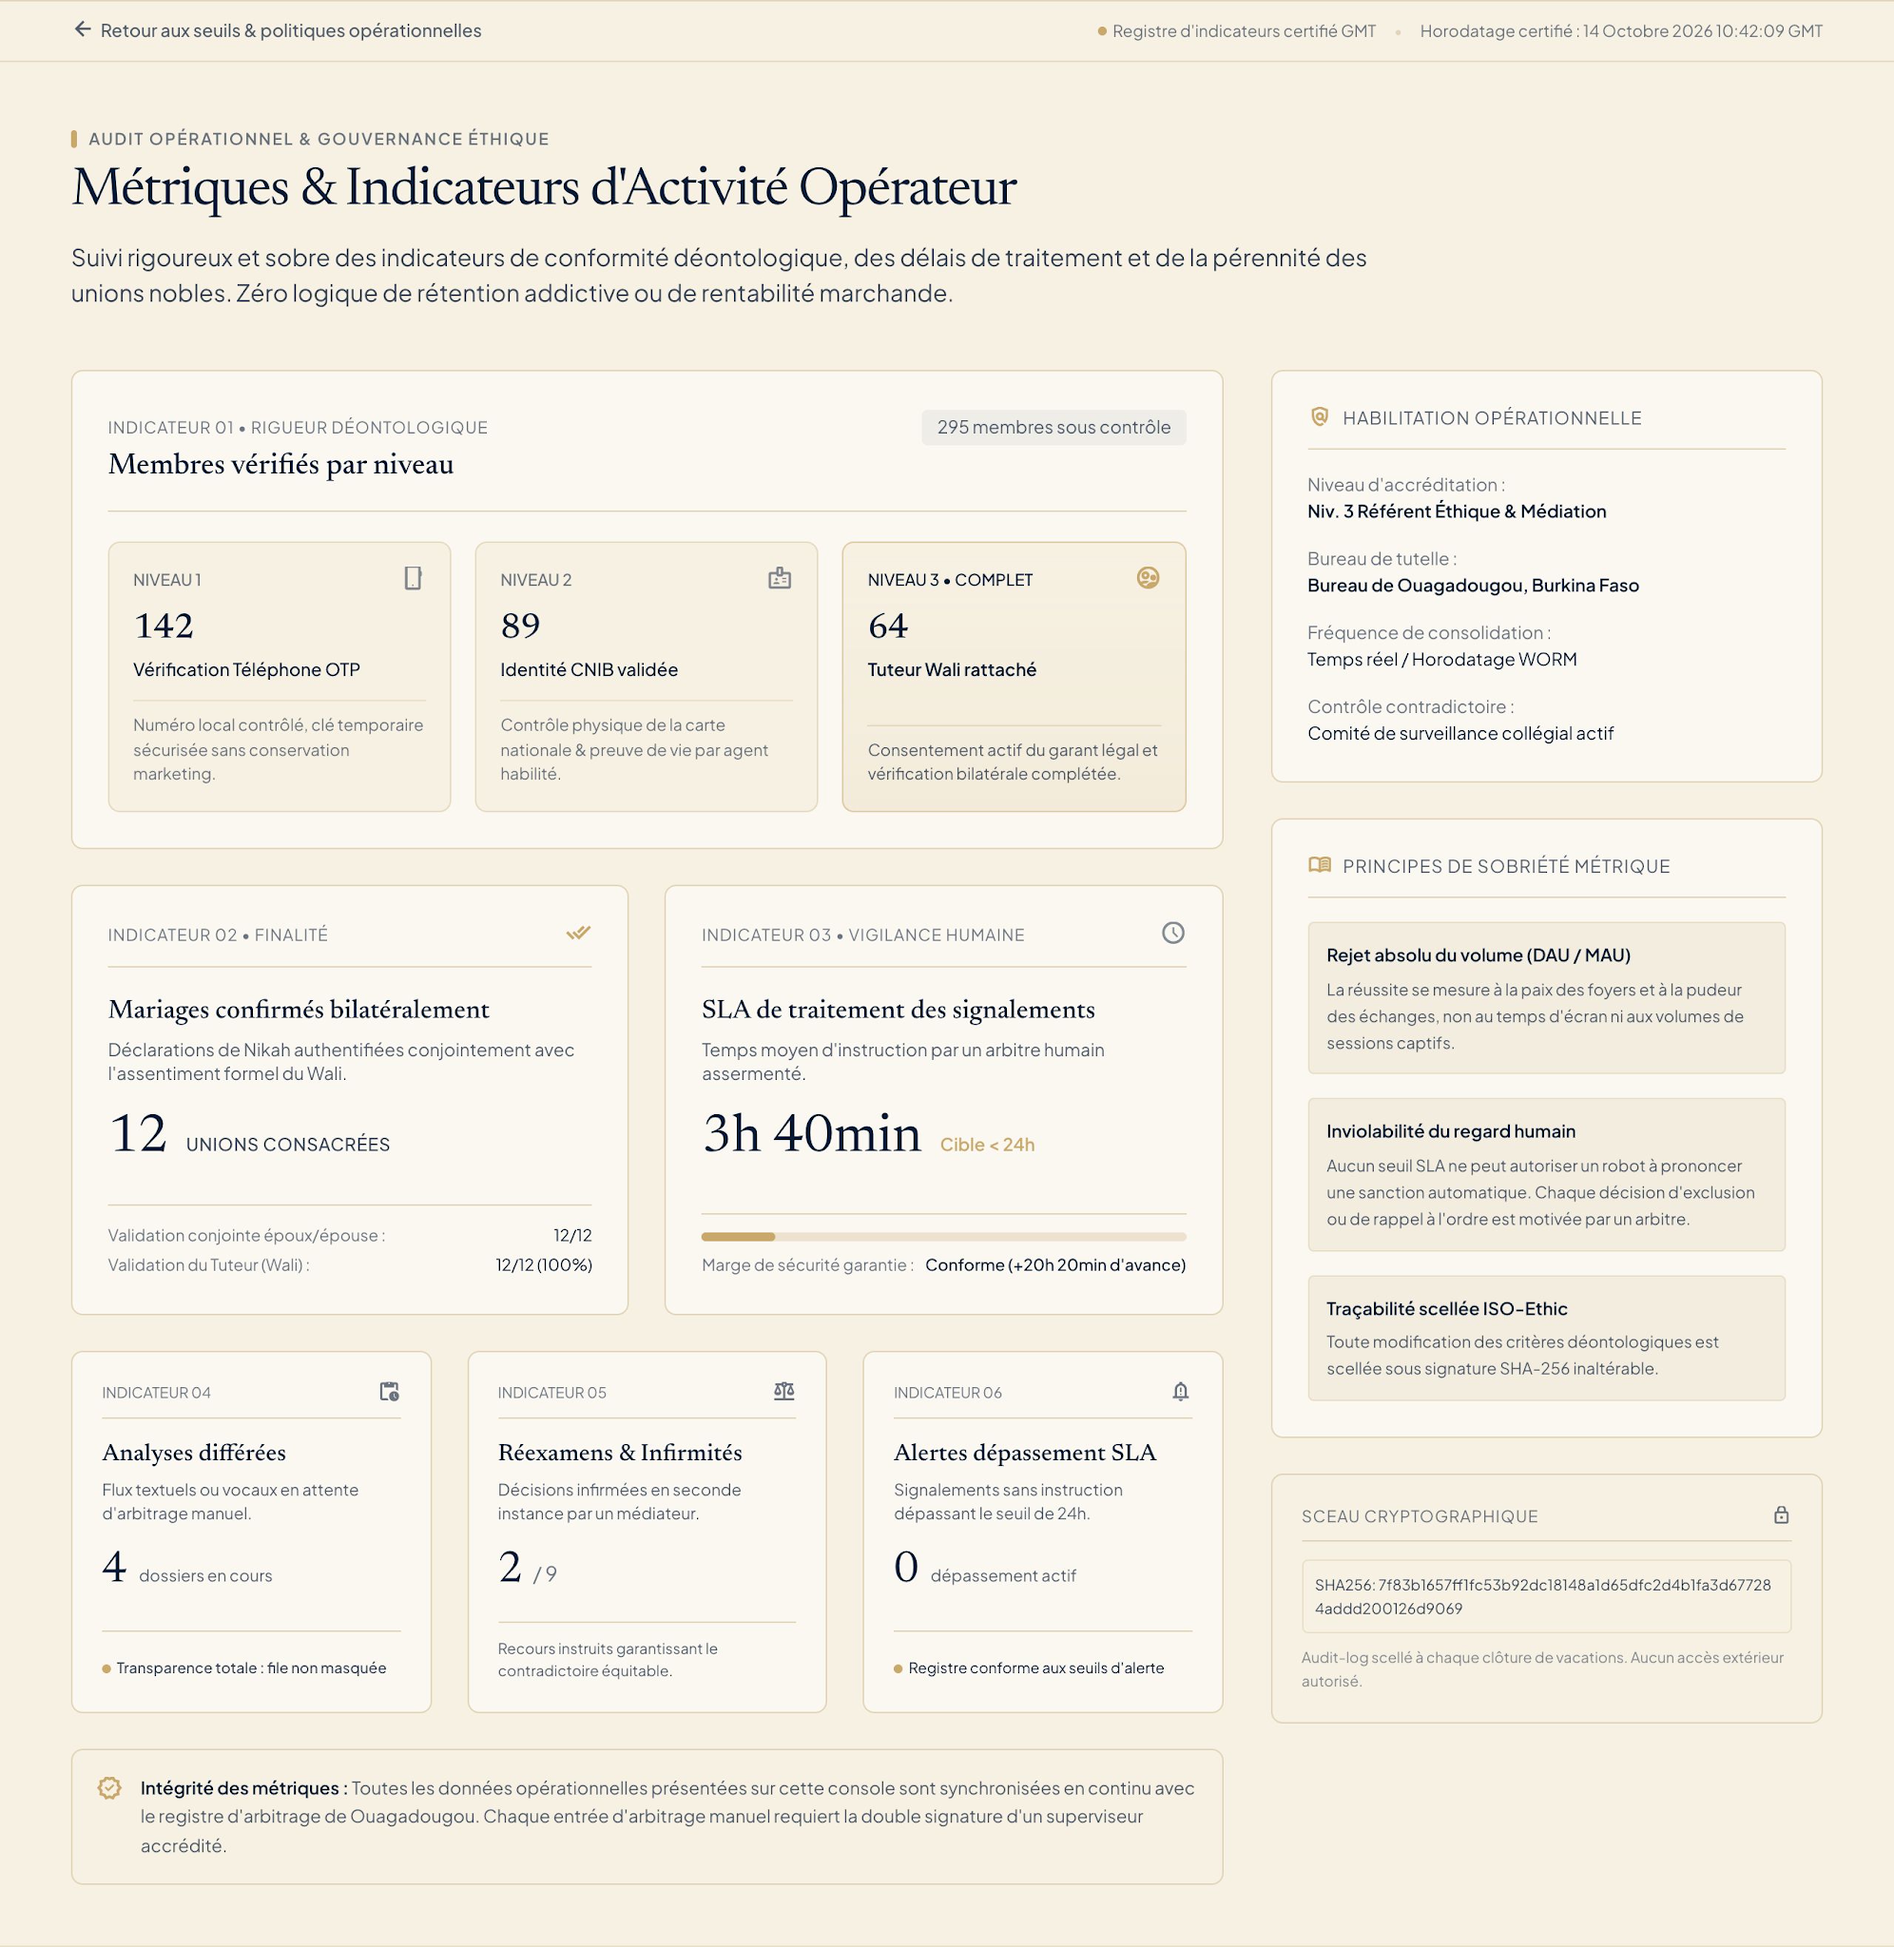
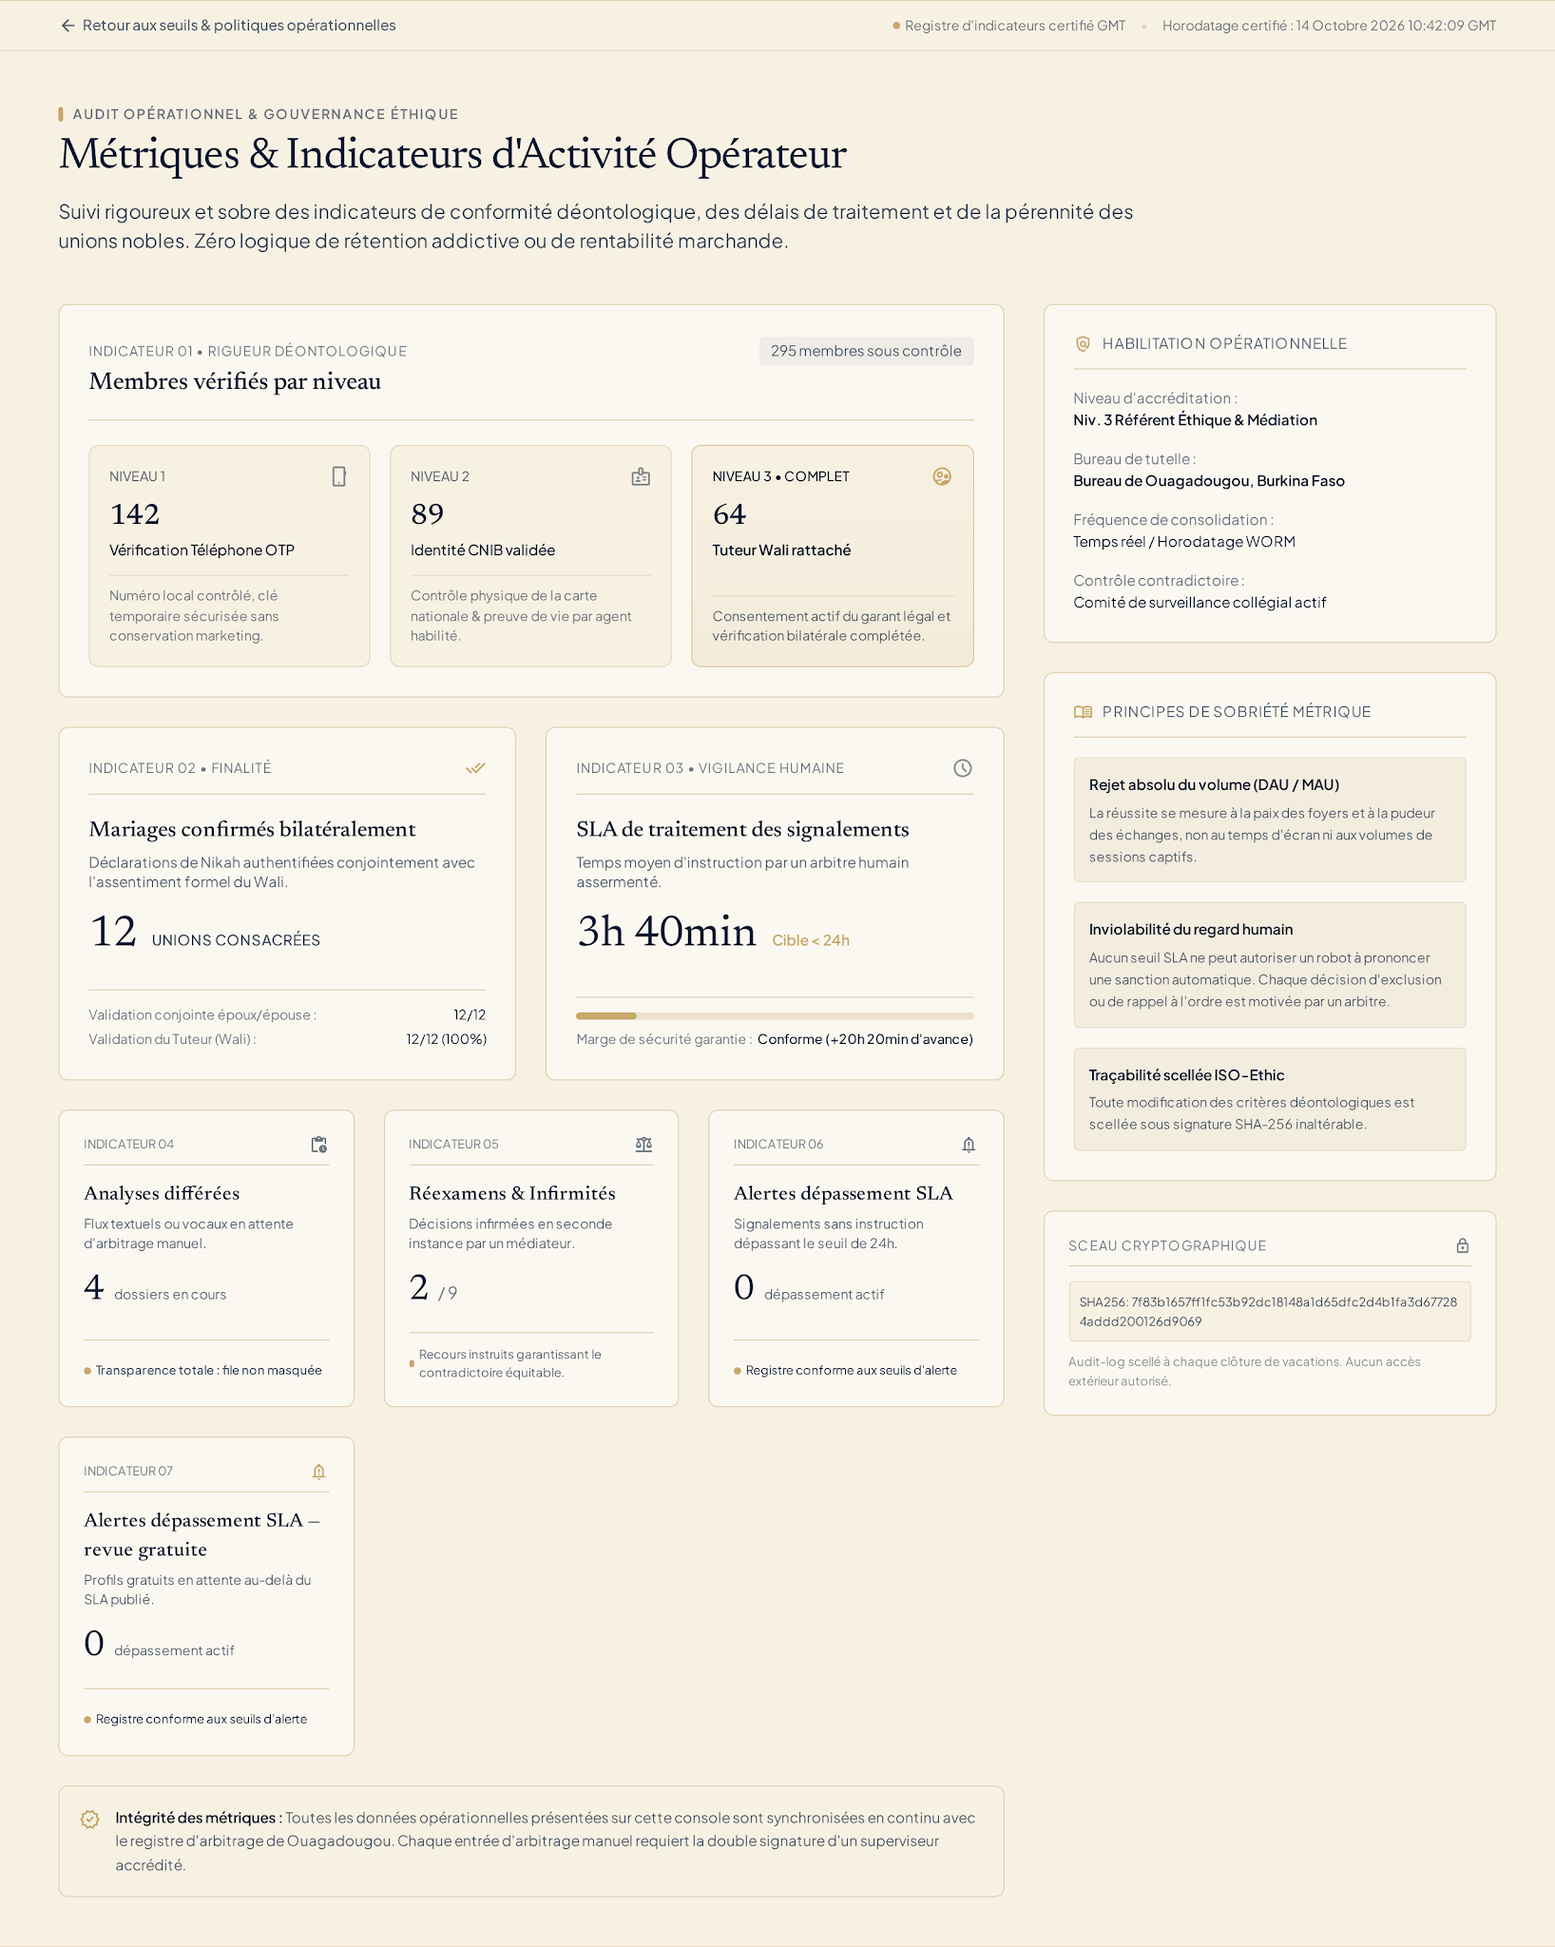
Download Stitch screen 49 with the free-review SLA-breach card.
Founder accepted ANK-106. Shipping layout is the approved Indicateur 07 frame, not the previous report-only metrics canvas.

diff --git a/code/design-stitch/ankanu-v2/49-operator-metrics/screen.html b/code/design-stitch/ankanu-v2/49-operator-metrics/screen.html
@@ -1,14 +1,15 @@
-<!DOCTYPE html><html class="h-full bg-[#F7F1E3]" lang="fr" style=""><head>
-<meta charset="utf-8">
-<meta content="width=device-width, initial-scale=1.0" name="viewport">
-<title>AnKanu - Métriques &amp; Indicateurs Opérateur (Staff)</title>
+<!DOCTYPE html>
+
+<html class="h-full bg-[#F7F1E3]" lang="fr"><head>
+<meta charset="utf-8"/>
+<meta content="width=device-width, initial-scale=1.0" name="viewport"/>
+<title>AnKanu - Métriques &amp; Indicateurs d'Activité Opérateur (Staff)</title>
 <!-- Material Symbols Outlined -->
-<link href="https://fonts.googleapis.com/css2?family=Material+Symbols+Outlined:wght,FILL@100..700,0..1&amp;display=swap" rel="stylesheet">
+<link href="https://fonts.googleapis.com/css2?family=Material+Symbols+Outlined:wght,FILL@100..700,0..1&amp;display=swap" rel="stylesheet"/>
 <!-- Fonts -->
-<link href="https://fonts.googleapis.com" rel="preconnect">
-<link crossorigin="" href="https://fonts.gstatic.com" rel="preconnect">
-<link href="https://fonts.googleapis.com/css2?family=Newsreader:ital,opsz,wght@0,6..72,300;0,6..72,400;0,6..72,500;0,6..72,600;1,6..72,400&amp;family=Plus+Jakarta+Sans:wght@300;400;500;600;700&amp;display=swap" rel="stylesheet">
-<link href="https://fonts.googleapis.com/css2?family=Material+Symbols+Outlined:wght,FILL@100..700,0..1&amp;display=swap" rel="stylesheet">
+<link href="https://fonts.googleapis.com" rel="preconnect"/>
+<link crossorigin="" href="https://fonts.gstatic.com" rel="preconnect"/>
+<link href="https://fonts.googleapis.com/css2?family=Newsreader:ital,opsz,wght@0,6..72,300;0,6..72,400;0,6..72,500;0,6..72,600;1,6..72,400&amp;family=Plus+Jakarta+Sans:wght@300;400;500;600;700&amp;display=swap" rel="stylesheet"/>
 <!-- Tailwind CSS -->
 <script src="https://cdn.tailwindcss.com?plugins=forms,container-queries"></script>
 <script id="tailwind-config">
@@ -55,7 +56,6 @@
 <body class="min-h-full flex flex-col bg-cream text-deep-navy font-body antialiased selection:bg-gold-soft selection:text-deep-navy">
 <!-- Top Staff Header (Espace Réservé Staff) -->
 <header class="w-full bg-cream border-b border-hairline sticky top-0 z-50">
-
 </header>
 <!-- Subheader / Audit Breadcrumb Ribbon -->
 <div class="w-full bg-cream border-b border-hairline/80">
@@ -91,7 +91,7 @@
         Suivi rigoureux et sobre des indicateurs de conformité déontologique, des délais de traitement et de la pérennité des unions nobles. Zéro logique de rétention addictive ou de rentabilité marchande.
       </p>
 </div>
-<!-- Two-Pane Layout (Grid: Analytical Metrics 8-cols, Staff Context / Governance 4-cols) -->
+<!-- Two-Pane Layout (Grid: Analytical Metrics 8-cols / 2/3, Staff Context / Governance 4-cols / 1/3) -->
 <div class="grid grid-cols-1 lg:grid-cols-12 gap-8 items-start">
 <!-- LEFT PANE: Operational & Ethical Metrics (8 cols) -->
 <div class="lg:col-span-8 space-y-6">
@@ -153,7 +153,7 @@
 <!-- METRIC 2 & 3: Mariages confirmés & SLA de traitement (2 Columns Bento) -->
 <div class="grid grid-cols-1 md:grid-cols-2 gap-6">
 <!-- METRIC 2: Mariages confirmés bilatéralement -->
-<section class="bg-cream border border-hairline rounded-md p-6 flex flex-col justify-between" style="background-color: rgb(251, 248, 241);">
+<section class="border border-hairline rounded-md p-6 flex flex-col justify-between" style="background-color: #FBF8F1;">
 <div>
 <div class="flex items-center justify-between border-b border-hairline pb-3 mb-4">
 <span class="text-[11px] font-mono uppercase tracking-wider text-deep-navy/60">Indicateur 02 • Finalité</span>
@@ -178,7 +178,7 @@
 </div>
 </section>
 <!-- METRIC 3: SLA de traitement des signalements -->
-<section class="bg-cream border border-hairline rounded-md p-6 flex flex-col justify-between" style="background-color: rgb(251, 248, 241);">
+<section class="border border-hairline rounded-md p-6 flex flex-col justify-between" style="background-color: #FBF8F1;">
 <div>
 <div class="flex items-center justify-between border-b border-hairline pb-3 mb-4">
 <span class="text-[11px] font-mono uppercase tracking-wider text-deep-navy/60">Indicateur 03 • Vigilance Humaine</span>
@@ -202,7 +202,7 @@
 </div>
 </section>
 </div>
-<!-- METRIC 4, 5 & 6: Scan-deferred, Réexamens & Alertes SLA -->
+<!-- METRIC 4, 5 & 6: Scan-deferred, Réexamens & Alertes SLA (3 Columns) -->
 <div class="grid grid-cols-1 md:grid-cols-3 gap-6">
 <!-- METRIC 4: Analyses différées (Scan-deferred) -->
 <section class="border border-hairline rounded-md p-5 flex flex-col justify-between" style="background-color: #FBF8F1;">
@@ -226,7 +226,7 @@
 </div>
 </section>
 <!-- METRIC 5: Réexamens & Infirmités de sanction -->
-<section class="bg-cream border border-hairline rounded-md p-5 flex flex-col justify-between" style="background-color: rgb(251, 248, 241);">
+<section class="border border-hairline rounded-md p-5 flex flex-col justify-between" style="background-color: #FBF8F1;">
 <div>
 <div class="flex items-center justify-between pb-2 border-b border-hairline mb-3">
 <span class="text-[10px] font-mono uppercase text-deep-navy/60">Indicateur 05</span>
@@ -239,11 +239,14 @@
 </div>
 </div>
 <div class="mt-4 pt-2.5 border-t border-hairline text-[10px] text-deep-navy/70">
-<span class="">Recours instruits garantissant le contradictoire équitable.</span>
+<span class="inline-flex items-center gap-1">
+<span class="w-1.5 h-1.5 rounded-full bg-soft-gold"></span>
+                Recours instruits garantissant le contradictoire équitable.
+              </span>
 </div>
 </section>
 <!-- METRIC 6: Alertes de dépassement SLA -->
-<section class="bg-cream border border-hairline rounded-md p-5 flex flex-col justify-between" style="background-color: rgb(251, 248, 241);">
+<section class="border border-hairline rounded-md p-5 flex flex-col justify-between" style="background-color: #FBF8F1;">
 <div>
 <div class="flex items-center justify-between pb-2 border-b border-hairline mb-3">
 <span class="text-[10px] font-mono uppercase text-deep-navy/60">Indicateur 06</span>
@@ -264,6 +267,33 @@
 </div>
 </section>
 </div>
+<!-- NEW ROW for Indicateur 07 (grid-cols-1 md:grid-cols-3 gap-6) -->
+<div class="grid grid-cols-1 md:grid-cols-3 gap-6">
+<!-- METRIC 7: Alertes dépassement SLA — revue gratuite -->
+<section class="border border-hairline rounded-md p-5 flex flex-col justify-between" style="background-color: #FBF8F1;">
+<div>
+<div class="flex items-center justify-between pb-2 border-b border-hairline mb-3">
+<span class="text-[10px] font-mono uppercase text-deep-navy/60">Indicateur 07</span>
+<span class="material-symbols-outlined text-[16px] text-soft-gold" data-icon="notification_important">notification_important</span>
+</div>
+<h3 class="font-display text-base text-deep-navy font-medium">Alertes dépassement SLA — revue gratuite</h3>
+<p class="text-[11px] text-deep-navy/70 mt-1 mb-3">Profils gratuits en attente au-delà du SLA publié.</p>
+<div class="flex items-baseline gap-2">
+<span class="font-display text-3xl text-deep-navy font-normal">0</span>
+<span class="text-[11px] text-deep-navy/70">dépassement actif</span>
+</div>
+</div>
+<div class="mt-4 pt-2.5 border-t border-hairline">
+<span class="inline-flex items-center gap-1 text-[10px] font-mono text-deep-navy">
+<span class="w-1.5 h-1.5 rounded-full bg-soft-gold"></span>
+                Registre conforme aux seuils d'alerte
+              </span>
+</div>
+</section>
+<!-- Empty column slots in the 3-column grid row to preserve 1/3 column exact width on desktop -->
+<div class="hidden md:block"></div>
+<div class="hidden md:block"></div>
+</div>
 <!-- Note of Compliance below indicators -->
 <div class="p-4 rounded-md border border-hairline bg-cream text-xs text-deep-navy/70 flex items-start gap-3">
 <span class="material-symbols-outlined text-[18px] text-soft-gold flex-shrink-0 mt-0.5" data-icon="verified">verified</span>
@@ -275,7 +305,7 @@
 <!-- RIGHT PANE: Governance / Staff Context (4 cols) -->
 <aside class="lg:col-span-4 space-y-6">
 <!-- Card 1: Habilitation Opérationnelle & Conformité -->
-<div class="bg-cream border border-hairline rounded-md p-6" style="background-color: rgb(251, 248, 241);">
+<div class="border border-hairline rounded-md p-6" style="background-color: #FBF8F1;">
 <div class="flex items-center gap-2 text-xs font-mono uppercase tracking-wider text-deep-navy/70 pb-3 border-b border-hairline mb-4">
 <span class="material-symbols-outlined text-[16px] text-soft-gold" data-icon="policy">policy</span>
 <span class="">Habilitation Opérationnelle</span>
@@ -300,7 +330,7 @@
 </ul>
 </div>
 <!-- Card 2: Principes de Sobriété Métrique -->
-<div class="bg-cream border border-hairline rounded-md p-6" style="background-color: rgb(251, 248, 241);">
+<div class="border border-hairline rounded-md p-6" style="background-color: #FBF8F1;">
 <div class="flex items-center gap-2 text-xs font-mono uppercase tracking-wider text-deep-navy/70 pb-3 border-b border-hairline mb-4">
 <span class="material-symbols-outlined text-[16px] text-soft-gold" data-icon="menu_book">menu_book</span>
 <span class="">Principes de Sobriété Métrique</span>
@@ -327,7 +357,7 @@
 </div>
 </div>
 <!-- Card 3: Empreinte Cryptographique de Session -->
-<div class="bg-cream border border-hairline rounded-md p-5 text-xs font-mono text-deep-navy/70">
+<div class="border border-hairline rounded-md p-5 text-xs font-mono text-deep-navy/70" style="background-color: #FBF8F1;">
 <div class="flex items-center justify-between text-[11px] uppercase tracking-wider text-deep-navy/60 pb-2 border-b border-hairline mb-3">
 <span class="">Sceau Cryptographique</span>
 <span class="material-symbols-outlined text-[14px]" data-icon="lock">lock</span>
@@ -344,10 +374,5 @@
 </main>
 <!-- Quiet Staff Footer matching Shared Components JSON strictly -->
 <footer class="w-full bg-cream border-t border-hairline/60 mt-auto">
-
 </footer>
-
-
-
-
 </body></html>

diff --git a/code/design-stitch/ankanu-v2/MANIFEST.md b/code/design-stitch/ankanu-v2/MANIFEST.md
@@ -4,7 +4,7 @@
 - Project: https://stitch.withgoogle.com/project/6717808880062298165
 - Design system: `DESIGN.md` (tokens only; layout is each PNG)
 - Old Stitch project on Google was **not** deleted.
-- Refresh: founder-edited project re-downloaded 2026-10-11 (replaces [`23a7151`](https://github.com/usfaa444/muslim-marriage-africa/commit/23a7151)).
+- Refresh: founder-edited project re-downloaded 2026-10-11 (replaces [`23a7151`](https://github.com/usfaa444/muslim-marriage-africa/commit/23a7151)). Screen 49 HTML/PNG replaced 2026-10-13 after founder Accept on ANK-106 (Indicateur 07 — free-review SLA-breach). New Stitch id `b03cdd4e2f4b43c3a50d9014b6df6f31`; previous id `c143ef4636044f509dc2d307b65437ca` is no longer in live `list_screens`.
 
 ## Completeness proof
 
@@ -16,7 +16,7 @@
 - Missing: **0**
 - Stale extras (folder/id not in live `list_screens`): **0**
 
-Zero missing and zero stale extras is the only pass. Verified 2026-10-11 against a fresh `list_screens` for project `6717808880062298165`.
+Zero missing and zero stale extras is the only pass. Verified 2026-10-13 against a fresh `list_screens` for project `6717808880062298165` after the screen 49 replacement (live count **56**, downloaded **56**).
 
 Note: `55-pwa-manifest` is a JSON asset. Stitch returned no screenshot URL. The PNG is a raster of the downloaded `manifest.json` bytes (cream/navy tokens). Do not treat it as a Stitch canvas.
 
@@ -72,7 +72,7 @@ Note: `55-pwa-manifest` is a JSON asset. Stitch returned no screenshot URL. The 
 | 46 | AnKanu - Tarification & Packs Opérateur (Staff) | `89a27e641a534aac8056807204501e46` | `46-operator-pricing/screen.html` | `46-operator-pricing/screen.png` | Operator pricing |
 | 47 | AnKanu - Accès Sœurs & Plafonds Opérateur (Staff) | `59e9958e8b1041c68f428c2f900e1633` | `47-operator-sister-reach/screen.html` | `47-operator-sister-reach/screen.png` | Operator sister-reach mode |
 | 48 | AnKanu - Plafond Journalier de Messages & Accès Sœurs (Staff) | `46021cb225104767b72a9c56e4ed012b` | `48-operator-message-cap/screen.html` | `48-operator-message-cap/screen.png` | Operator daily message cap |
-| 49 | AnKanu - Métriques Opérateur (Staff) | `c143ef4636044f509dc2d307b65437ca` | `49-operator-metrics/screen.html` | `49-operator-metrics/screen.png` | Operator metrics |
+| 49 | AnKanu - Métriques Opérateur (Staff) | `b03cdd4e2f4b43c3a50d9014b6df6f31` | `49-operator-metrics/screen.html` | `49-operator-metrics/screen.png` | Operator metrics |
 | 50 | AnKanu - File des Requêtes CIL & Effacement (Staff) | `a7c0d7374f3d407396edb4e90149a74d` | `50-operator-cil-tickets/screen.html` | `50-operator-cil-tickets/screen.png` | Operator CIL / deletion tickets |
 | 51 | AnKanu - Académie & Publications Éthiques (Staff) | `e3ecb4ac01da4061bbd31e0643dc9548` | `51-operator-board-academie/screen.html` | `51-operator-board-academie/screen.png` | Operator Board / Académie publish |
 | 52 | AnKanu - Signaux de visite T&S & Modération (Staff) | `44fc9a9f8432478fb034f7576da37bd8` | `52-ts-visit-signals/screen.html` | `52-ts-visit-signals/screen.png` | T&S visit signals |
